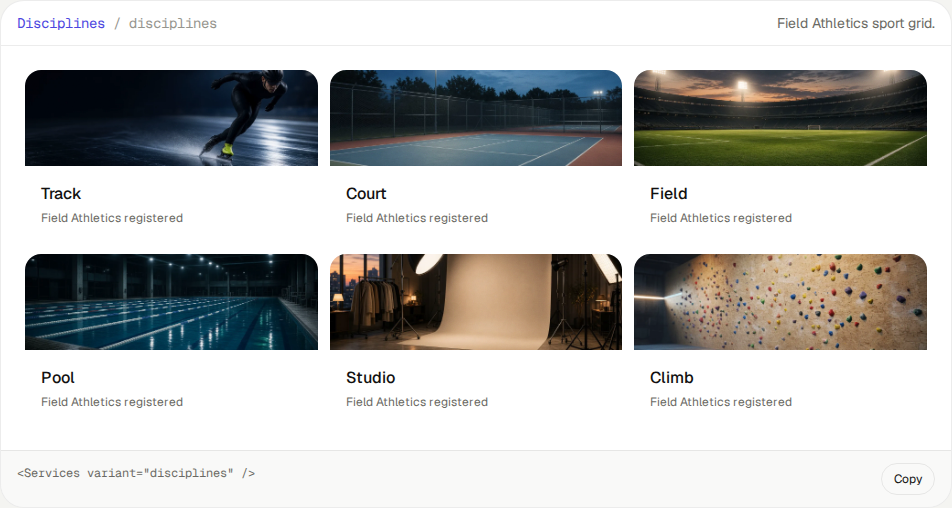
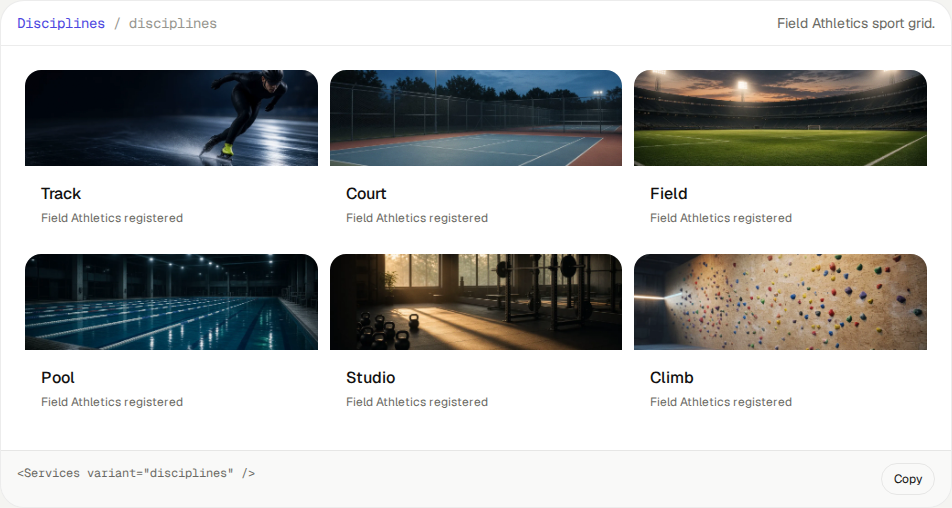
Match labelled stills to the words on the cards.
Replace the Carewell phone with a Lumen Care screen, give HVAC checklist wells duct, cassette, and plant photography, and retitle the Anitha portrait. Also wire AC radio roving tabindex, case-study tabpanels, and unclipped search/group rings.

Changed region(s): [[0.3351, 0.502, 0.6702, 0.7087]]

diff --git a/src/components/ui/hero-extra.tsx b/src/components/ui/hero-extra.tsx
@@ -307,7 +307,7 @@ export function ExtraHero({
           <Title className={cn(titleClass, 'text-5xl')}>{title}</Title>
           <div className="mt-4">{lede}</div>
         </div>
-        <div className="mx-auto mt-10 grid max-w-5xl grid-cols-3 gap-3" style={{ transform: 'perspective(900px) rotateX(16deg)' }}>
+        <div className="mx-auto mt-10 grid max-w-5xl grid-cols-3 gap-3" aria-hidden="true" style={{ transform: 'perspective(900px) rotateX(16deg)' }}>
           {tiles.map((src) => (
             <MediaFrame key={src} src={src} alt="" className="h-28 rounded-xl border border-nx-border" />
           ))}
@@ -411,25 +411,70 @@ function AcRemote({
               +
             </button>
           </div>
-          <div className="flex flex-wrap items-center gap-1" role="radiogroup" aria-label="Mode">
-            <span className="mr-1 text-[10px] tracking-[0.16em] text-white/45 uppercase">Mode</span>
-            {modes.map((item) => (
-              <button key={item} type="button" role="radio" aria-checked={mode === item} className={cn(focusRing, 'rounded-full px-3 py-1.5', mode === item ? modeTone[item] : 'text-white/70')} onClick={() => setMode(item)}>
-                {item}
-              </button>
-            ))}
-          </div>
-          <div className="flex items-center gap-1" role="radiogroup" aria-label="Fan">
-            <span className="mr-1 text-[10px] tracking-[0.16em] text-white/45 uppercase">Fan</span>
-            {fans.map((item) => (
-              <button key={item} type="button" role="radio" aria-checked={fan === item} className={cn(focusRing, 'rounded-full px-3 py-1.5', fan === item ? 'bg-white text-[#111]' : 'text-white/70')} onClick={() => setFan(item)}>
-                {item}
-              </button>
-            ))}
-          </div>
+          <RadioChips
+            label="Mode"
+            value={mode}
+            options={modes}
+            onChange={setMode}
+            tone={(item) => (item === mode ? modeTone[item] : 'text-white/70')}
+          />
+          <RadioChips
+            label="Fan"
+            value={fan}
+            options={fans}
+            onChange={setFan}
+            tone={(item) => (item === fan ? 'bg-white text-[#111]' : 'text-white/70')}
+          />
         </div>
       </div>
     </section>
+  )
+}
+
+function RadioChips<T extends string>({
+  label,
+  value,
+  options,
+  onChange,
+  tone,
+}: {
+  label: string
+  value: T
+  options: readonly T[]
+  onChange: (value: T) => void
+  tone: (item: T) => string
+}) {
+  return (
+    <div className="flex flex-wrap items-center gap-1" role="radiogroup" aria-label={label}>
+      <span className="mr-1 text-[10px] tracking-[0.16em] text-white/45 uppercase">{label}</span>
+      {options.map((item) => {
+        const selected = item === value
+        return (
+          <button
+            key={item}
+            type="button"
+            role="radio"
+            aria-checked={selected}
+            tabIndex={selected ? 0 : -1}
+            className={cn(focusRing, 'rounded-full px-3 py-1.5', tone(item))}
+            onClick={() => onChange(item)}
+            onKeyDown={(event) => {
+              if (event.key !== 'ArrowRight' && event.key !== 'ArrowLeft' && event.key !== 'ArrowDown' && event.key !== 'ArrowUp') return
+              event.preventDefault()
+              const index = options.indexOf(value)
+              const delta = event.key === 'ArrowRight' || event.key === 'ArrowDown' ? 1 : -1
+              const next = options[(index + delta + options.length) % options.length]
+              if (!next) return
+              onChange(next)
+              const radios = event.currentTarget.parentElement?.querySelectorAll<HTMLButtonElement>('[role="radio"]')
+              radios?.[(index + delta + options.length) % options.length]?.focus()
+            }}
+          >
+            {item}
+          </button>
+        )
+      })}
+    </div>
   )
 }
 

diff --git a/src/components/ui/case-study.tsx b/src/components/ui/case-study.tsx
@@ -62,13 +62,25 @@ export function CaseStudy({ variant = 'tabs', className }: CaseStudyProps) {
             {studies.map((study, index) => (
               <button
                 key={study.id}
+                id={`case-tab-${study.id}`}
                 type="button"
                 role="tab"
                 aria-selected={index === active}
+                aria-controls={`case-panel-${study.id}`}
+                tabIndex={index === active ? 0 : -1}
                 className={cn(focusRing, 'rounded-full px-3 py-1.5 text-xs', index === active ? 'bg-nx-fg text-nx-bg' : 'text-nx-muted hover:bg-nx-soft')}
                 onClick={() => {
                   setActive(index)
                   setPaused(true)
+                }}
+                onKeyDown={(event) => {
+                  if (event.key !== 'ArrowRight' && event.key !== 'ArrowLeft') return
+                  event.preventDefault()
+                  const delta = event.key === 'ArrowRight' ? 1 : -1
+                  const next = (index + delta + studies.length) % studies.length
+                  setActive(next)
+                  setPaused(true)
+                  event.currentTarget.parentElement?.querySelectorAll<HTMLButtonElement>('[role="tab"]')[next]?.focus()
                 }}
               >
                 {study.client}
@@ -76,11 +88,21 @@ export function CaseStudy({ variant = 'tabs', className }: CaseStudyProps) {
             ))}
           </div>
           {looping ? (
-            <button type="button" className={cn(focusRing, 'mt-3 text-xs text-nx-muted')} onClick={() => setPaused((value) => !value)}>
+            <button
+              type="button"
+              aria-pressed={!paused}
+              className={cn(focusRing, 'mt-3 text-xs text-nx-muted')}
+              onClick={() => setPaused((value) => !value)}
+            >
               {paused ? 'Play cases' : 'Pause cases'}
             </button>
           ) : null}
-          <article className="mt-5 grid min-h-48 overflow-hidden rounded-[1.6rem] bg-[#111113] text-white md:grid-cols-[1.1fr_0.9fr]">
+          <article
+            id={`case-panel-${current.id}`}
+            role="tabpanel"
+            aria-labelledby={`case-tab-${current.id}`}
+            className="mt-5 grid min-h-48 overflow-hidden rounded-[1.6rem] bg-[#111113] text-white md:grid-cols-[1.1fr_0.9fr]"
+          >
             <div className="p-8">
               <p className="text-[11px] tracking-[0.18em] text-[#c8ff4d] uppercase">{current.sector}</p>
               <h3 className="mt-3 font-serif text-4xl">{current.client}</h3>
@@ -241,7 +263,7 @@ export function CaseStudy({ variant = 'tabs', className }: CaseStudyProps) {
                 />
               ))}
             </div>
-            <button type="button" className={cn(focusRing, 'text-xs text-nx-muted')} onClick={() => setPaused((value) => !value)}>
+            <button type="button" aria-pressed={!paused} className={cn(focusRing, 'text-xs text-nx-muted')} onClick={() => setPaused((value) => !value)}>
               {paused ? 'Play cases' : 'Pause cases'}
             </button>
           </div>

diff --git a/src/components/ui/testimonials.tsx b/src/components/ui/testimonials.tsx
@@ -25,9 +25,9 @@ export interface TestimonialsProps {
 }
 
 const quotes = [
-  { name: 'Ada Klein', role: 'Design lead, Harbor', handle: '@ada', text: 'The registry finally feels like a product, not a folder of snippets.', src: media.people.anitha },
-  { name: 'Jonah Ruiz', role: 'Engineer, Atlas', handle: '@jonah', text: 'We shipped the mast in a week because the variants were already distinct.', src: media.people.kiran },
-  { name: 'Mira Chen', role: 'PM, Field', handle: '@mira', text: 'Quiet type, real numbers, light and dark. That was the bar.', src: media.people.meera },
+  { name: 'Anitha Rao', role: 'Design lead, Harbor', handle: '@anitha', text: 'The registry finally feels like a product, not a folder of snippets.', src: media.people.anitha },
+  { name: 'Kiran Reddy', role: 'Engineer, Atlas', handle: '@kiran', text: 'We shipped the mast in a week because the variants were already distinct.', src: media.people.kiran },
+  { name: 'Meera Shah', role: 'PM, Field', handle: '@meera', text: 'Quiet type, real numbers, light and dark. That was the bar.', src: media.people.meera },
   { name: 'Eli Park', role: 'Founder, Lumen', handle: '@eli', text: 'Agents stop asking which button. They ask for button / shimmer and move on.', src: media.people.suresh },
   { name: 'Noor Hale', role: 'Brand, North', handle: '@noor', text: 'Geist, one accent, and a hairline. We stopped restyling every paste.', src: media.people.latha },
   { name: 'Sam Ori', role: 'Staff, Tide', handle: '@sam', text: 'The modal gallery actually shows the dialog. That should not feel rare.', src: media.people.vikram },
@@ -162,7 +162,7 @@ function HarborReel() {
       <div className="absolute inset-0 bg-black/45" />
       <div className="absolute inset-0 flex flex-col justify-end p-6">
         <PlayControl playing={playing} onToggle={() => setPlaying((value) => !value)} />
-        <p className="mt-6 font-serif text-3xl">Anitha on Harbor</p>
+        <p className="mt-6 font-serif text-3xl">Harbor after dark</p>
         <p className="mt-2 text-sm text-white/70">2:18 · How the registry landed in production</p>
       </div>
     </div>

diff --git a/src/components/ui/hero.tsx b/src/components/ui/hero.tsx
@@ -282,7 +282,7 @@ export function Hero({
         <div className="mx-auto max-w-3xl text-center">
           <Title className={cn(titleClass, 'text-5xl md:text-6xl')}>{title}</Title>
           <div className="mx-auto mt-4 max-w-lg">{lede}</div>
-          <form className="mt-8 flex overflow-hidden rounded-full border border-nx-border bg-nx-card shadow-[var(--nx-shadow)]" action="#" onSubmit={(event) => event.preventDefault()}>
+          <form className="mt-8 flex rounded-full border border-nx-border bg-nx-card shadow-[var(--nx-shadow)]" action="#" onSubmit={(event) => event.preventDefault()}>
             <label className="sr-only" htmlFor="nexara-hero-search">Search</label>
             <input id="nexara-hero-search" className={cn(focusRing, 'h-14 flex-1 rounded-full bg-transparent px-5 text-nx-fg')} placeholder="Search the library" />
             <button type="submit" className="m-1 rounded-full bg-nx-fg px-5 text-sm text-nx-bg">Search</button>

diff --git a/src/components/ui/services.tsx b/src/components/ui/services.tsx
@@ -27,9 +27,9 @@ export interface ServicesProps {
 
 const climate = [
   { name: 'VRF rooms', items: ['Load calc on site', 'Quiet night set', 'Commissioning book'], src: media.climate },
-  { name: 'Ducted lines', items: ['Ceiling routes', 'Static pressure', 'Filter schedule'], src: media.device },
-  { name: 'Cassette', items: ['Four-way throw', 'Condensate pumps', 'Night set'], src: media.glass },
-  { name: 'Plant', items: ['Air and water cooled', 'Plant room', 'BMS handshake'], src: media.cases.climate },
+  { name: 'Ducted lines', items: ['Ceiling routes', 'Static pressure', 'Filter schedule'], src: media.hvac.ducted },
+  { name: 'Cassette', items: ['Four-way throw', 'Condensate pumps', 'Night set'], src: media.hvac.cassette },
+  { name: 'Plant', items: ['Air and water cooled', 'Plant room', 'BMS handshake'], src: media.hvac.plant },
 ]
 
 const crews = [

diff --git a/src/components/ui/marquee.tsx b/src/components/ui/marquee.tsx
@@ -189,9 +189,9 @@ function samples(variant: MarqueeVariant): ReactNode {
   }
   if (variant === 'avatars') {
     return [
-      [media.people.anitha, 'Ada Klein'],
-      [media.people.kiran, 'Jonah Ruiz'],
-      [media.people.meera, 'Mira Chen'],
+      [media.people.anitha, 'Anitha Rao'],
+      [media.people.kiran, 'Kiran Reddy'],
+      [media.people.meera, 'Meera Shah'],
     ].map(([src, name]) => (
       <span key={name} className="inline-flex items-center gap-2 rounded-full border border-nx-border bg-nx-card pr-3">
         <MediaFrame src={src} alt={name} grain={false} className="size-8 shrink-0 rounded-full" />

diff --git a/src/components/ui/button-extra.tsx b/src/components/ui/button-extra.tsx
@@ -100,7 +100,7 @@ export function ExtraButton({
 
   if (variant === 'group') {
     return (
-      <div role="group" aria-label="Range" data-nexara="button" data-variant="group" className={cn('inline-flex overflow-hidden rounded-xl border border-nx-line bg-nx-card', className)}>
+      <div role="group" aria-label="Range" data-nexara="button" data-variant="group" className={cn('inline-flex rounded-xl border border-nx-line bg-nx-card', className)}>
         {['Day', 'Week', 'Month'].map((item) => (
           <button
             key={item}

diff --git a/src/lib/media.tsx b/src/lib/media.tsx
@@ -45,6 +45,11 @@ export const media = {
     studio: '/media/venue-studio.webp',
     climb: '/media/venue-climb.webp',
   },
+  hvac: {
+    ducted: '/media/hvac-ducted.webp',
+    cassette: '/media/hvac-cassette.webp',
+    plant: '/media/hvac-plant.webp',
+  },
   screens: {
     field: '/media/screen-field.webp',
     lumen: '/media/screen-lumen.webp',

diff --git a/docs/research/media.md b/docs/research/media.md
@@ -33,8 +33,9 @@ No Unsplash or Pexels files are bundled. If you swap in licence-free stock, keep
 | `editorial-*.webp`, `fan-*.webp` | Collage / fan |
 | `door-*.webp` | Clinic doors |
 | `case-*.webp` | Case studies |
-| `venue-*.webp` | Court, field, pool, studio, climb |
-| `screen-*.webp` | App phone UI stills |
+| `venue-*.webp` | Court, field, pool, athletic studio, climb |
+| `hvac-*.webp` | Ducted lines, cassette, plant room |
+| `screen-*.webp` | Field and Lumen app phone UI stills |
 | `portrait-*.webp` | Team and avatars |
 | `mark-*.svg` | Flat logo marks |
 | `cinema-reel.mp4`, `cinema-reel.webm` | Cinema playable reel |
